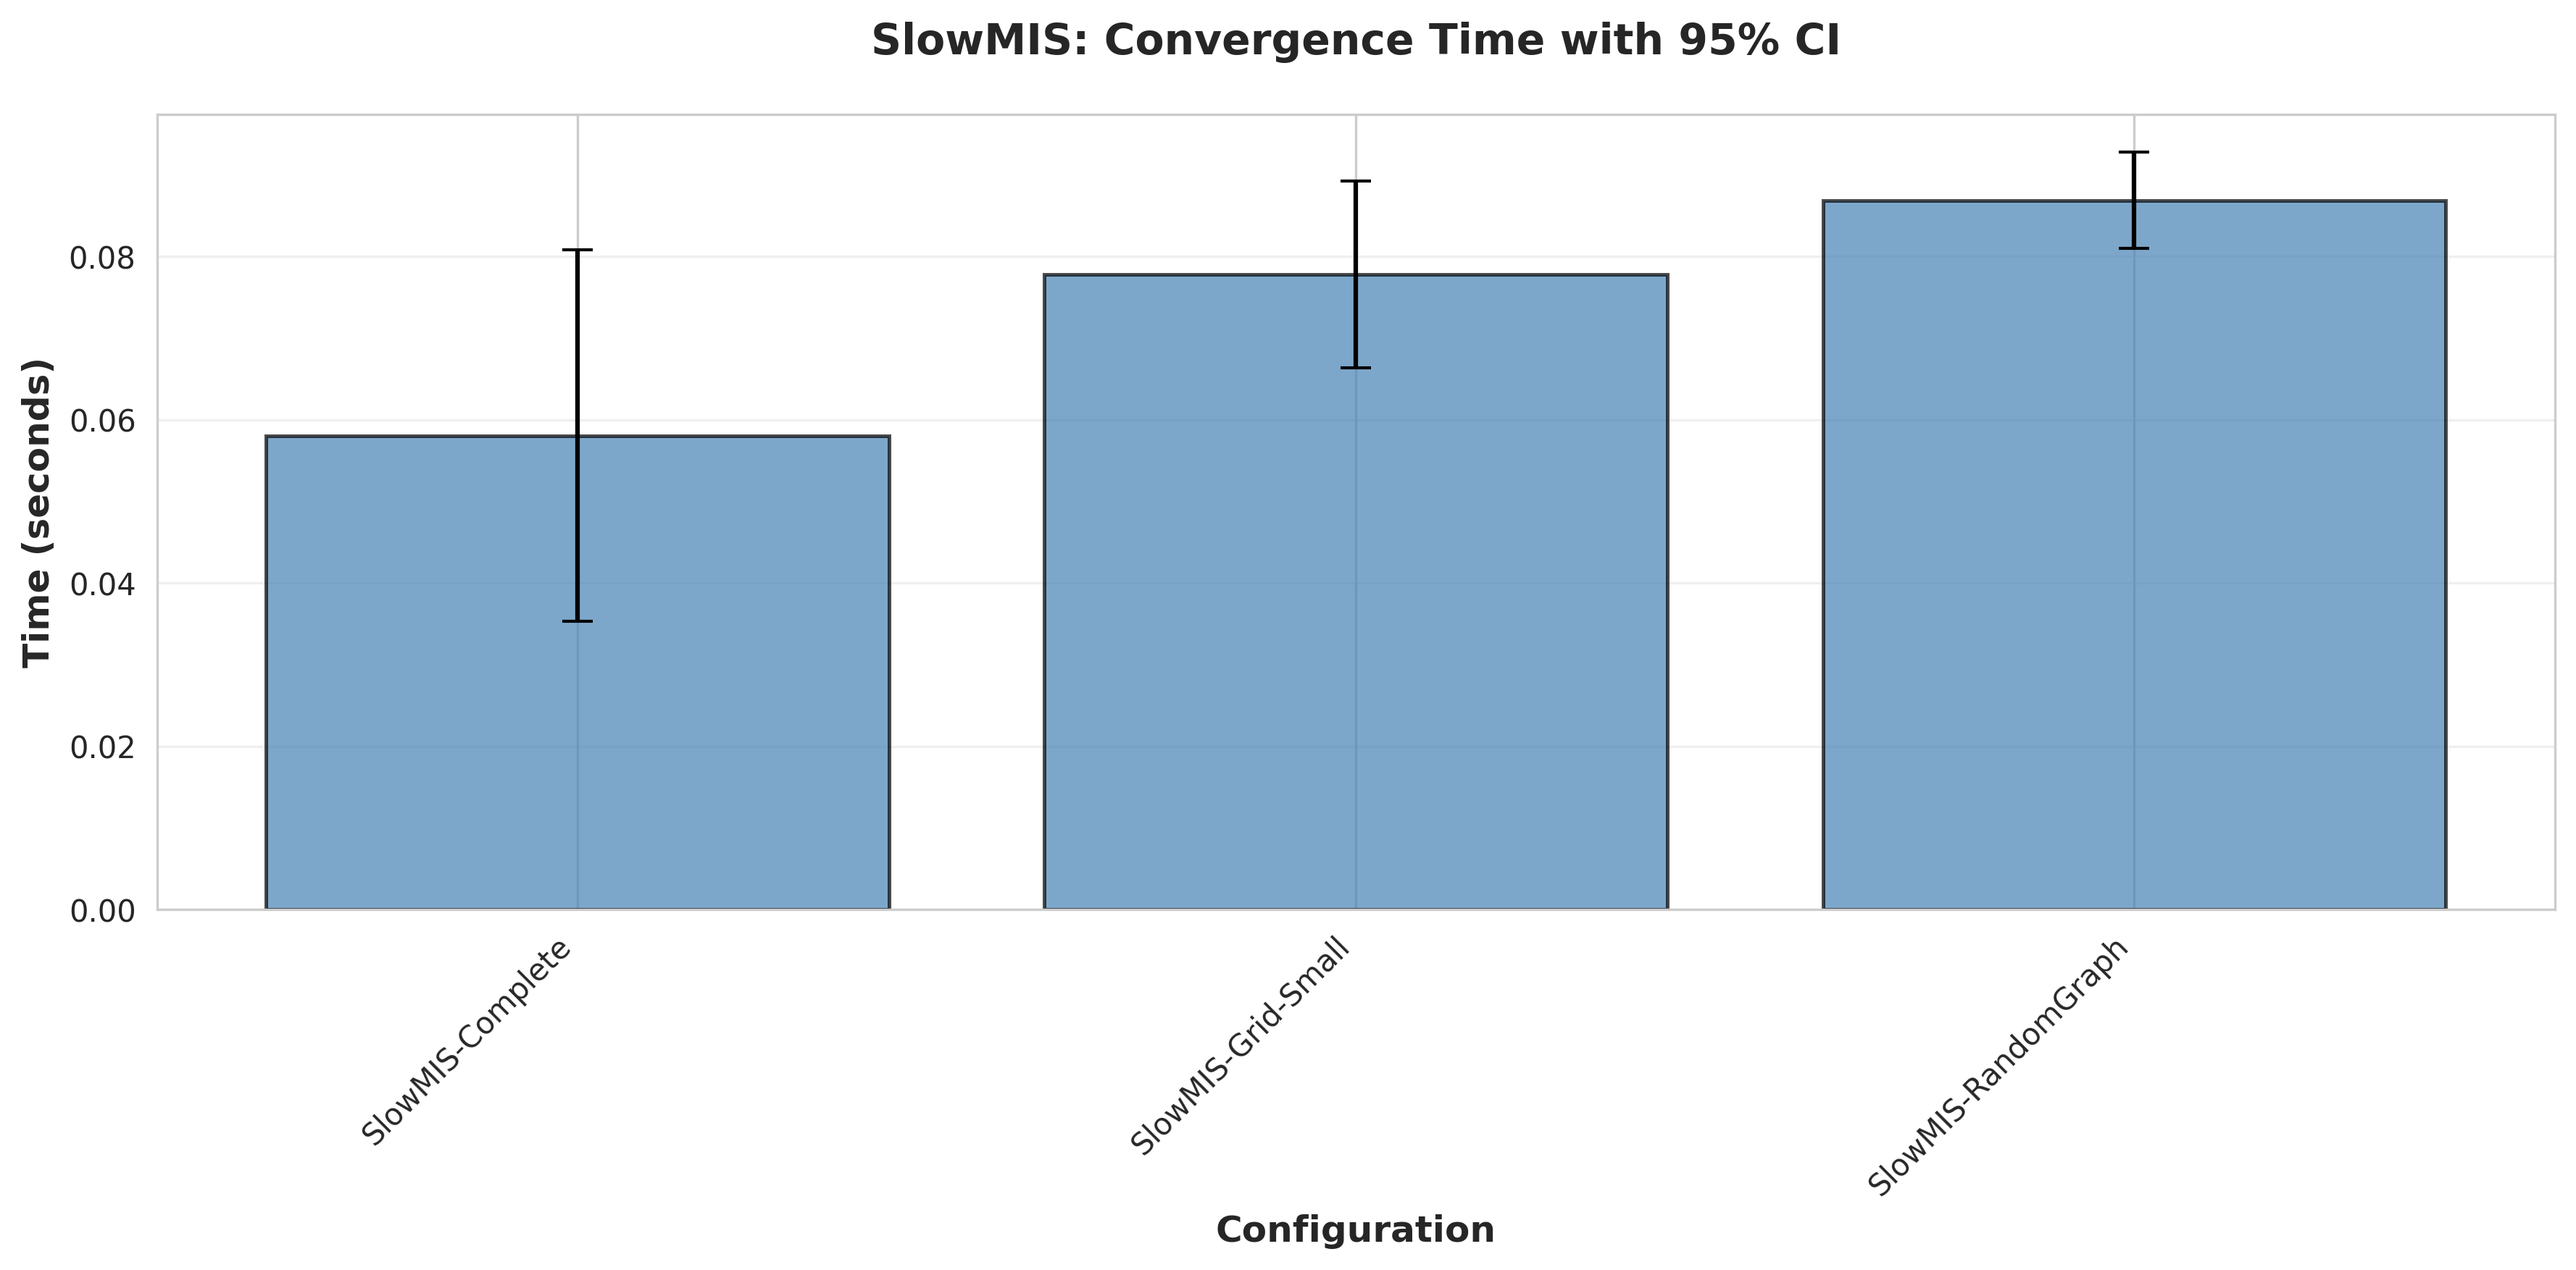
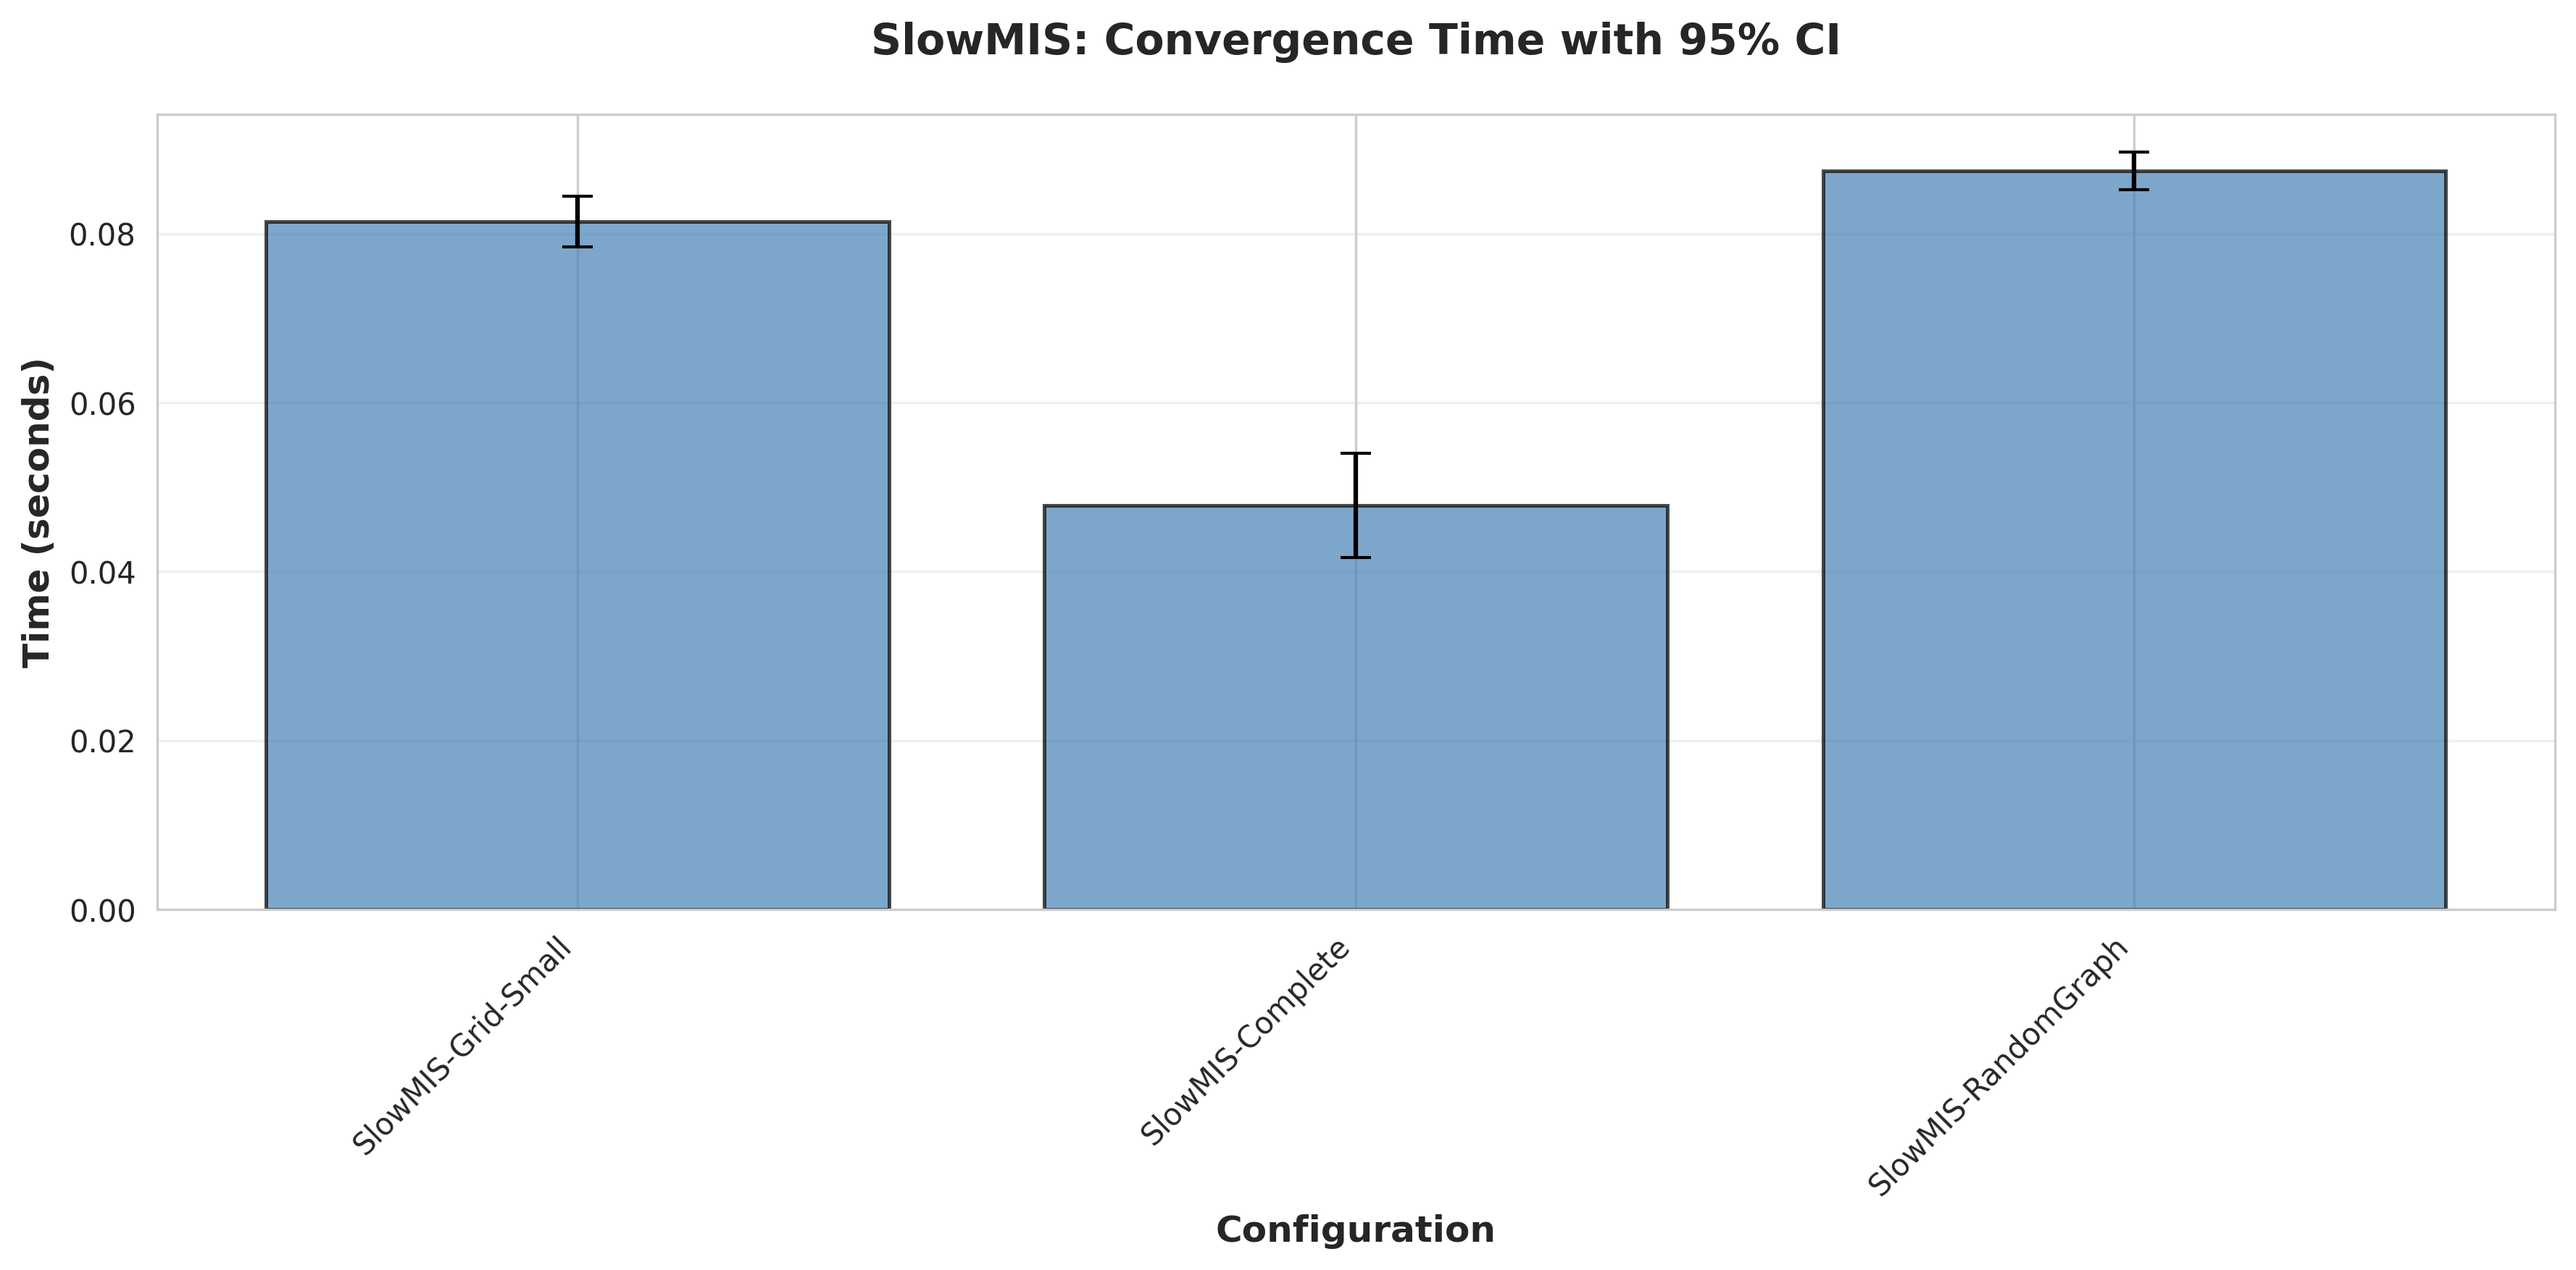
run count is now 100

diff --git a/analysis_output/FastMIS_summary.tex b/analysis_output/FastMIS_summary.tex
@@ -5,8 +5,8 @@
 \toprule
 Configuration & MIS Nodes & Total Overhead & Overhead/Node & Convergence Time & Avg Cluster Size \\
 \midrule
-FastMIS-Grid-Small & 3.60 (3.10-4.10) & 84.00 (81.43-86.57) & 9.33 (9.05-9.62) & 0.17 (0.16-0.18) & 3.67 (3.45-3.89) \\
-FastMIS-Complete & 1.00 (1.00-1.00) & 95.00 (95.00-95.00) & 15.83 (15.83-15.83) & 0.18 (0.17-0.19) & 6.00 (6.00-6.00) \\
-FastMIS-RandomGraph & 6.30 (5.54-7.06) & 16348.60 (16007.53-16689.67) & 163.49 (160.08-166.90) & 0.20 (0.20-0.20) & 49.18 (47.77-50.60) \\
+FastMIS-Complete & 1.00 (1.00-1.00) & 95.00 (95.00-95.00) & 15.83 (15.83-15.83) & 0.17 (0.17-0.18) & 6.00 (6.00-6.00) \\
+FastMIS-RandomGraph & 6.30 (6.13-6.47) & 16397.22 (16317.82-16476.62) & 163.97 (163.18-164.77) & 0.20 (0.20-0.20) & 49.53 (49.16-49.90) \\
+FastMIS-Grid-Small & 3.91 (3.73-4.09) & 84.79 (84.19-85.39) & 9.42 (9.35-9.49) & 0.17 (0.17-0.17) & 3.55 (3.50-3.60) \\
 \bottomrule
 \end{tabular}

diff --git a/analysis_output/SlowMIS_summary.tex b/analysis_output/SlowMIS_summary.tex
@@ -5,8 +5,8 @@
 \toprule
 Configuration & MIS Nodes & Total Overhead & Overhead/Node & Convergence Time & Avg Cluster Size \\
 \midrule
-SlowMIS-Complete & 1.00 (1.00-1.00) & 20.00 (20.00-20.00) & 3.33 (3.33-3.33) & 0.06 (0.04-0.08) & 6.00 (6.00-6.00) \\
-SlowMIS-Grid-Small & 5.00 (5.00-5.00) & 24.60 (23.63-25.57) & 2.73 (2.63-2.84) & 0.08 (0.07-0.09) & 3.40 (3.40-3.40) \\
-SlowMIS-RandomGraph & 6.20 (5.54-6.86) & 3320.20 (3253.66-3386.74) & 33.20 (32.54-33.87) & 0.09 (0.08-0.09) & 49.58 (47.78-51.37) \\
+SlowMIS-Grid-Small & 5.00 (5.00-5.00) & 24.07 (23.77-24.37) & 2.67 (2.64-2.71) & 0.08 (0.08-0.08) & 3.40 (3.40-3.40) \\
+SlowMIS-Complete & 1.00 (1.00-1.00) & 20.00 (20.00-20.00) & 3.33 (3.33-3.33) & 0.05 (0.04-0.05) & 6.00 (6.00-6.00) \\
+SlowMIS-RandomGraph & 6.41 (6.23-6.59) & 3401.04 (3379.49-3422.59) & 34.01 (33.79-34.23) & 0.09 (0.09-0.09) & 49.29 (48.90-49.68) \\
 \bottomrule
 \end{tabular}
